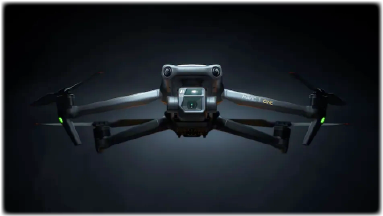
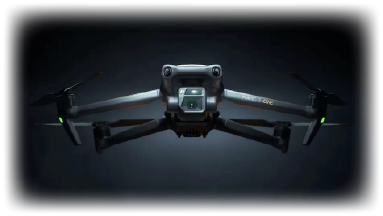
Updated Animation and Fixed XY Wrapper
*adjusted xy value logo-wrapper

*added fade in anim with quick fix

diff --git a/js/script.js b/js/script.js
@@ -9,8 +9,8 @@ window.addEventListener('DOMContentLoaded', () => {
     masterTimeline.to("#logo-wrapper", { 
         duration: 0.8, 
         scale: 0.35, 
-        x: -85,  
-        y: -85, 
+        x: -75,  
+        y: -75, 
         delay: 0.5 
     });
 
@@ -19,6 +19,18 @@ window.addEventListener('DOMContentLoaded', () => {
         x: 0,
         y: -200,
     }, "-=0.5");
+
+    //Just for Fade-In Animation.
+    masterTimeline.fromTo("#drone-wrapper", 
+        { opacity: 0 }, 
+        { 
+            opacity: 1, 
+            duration: 0.7, 
+            ease: "power1.inOut" 
+        }, 
+        "-=0.5"
+    );
+    //END
 
     masterTimeline.to("#copy-container", { 
         duration: 0.6, 
@@ -51,10 +63,12 @@ window.addEventListener('DOMContentLoaded', () => {
         });
     }
 
+    //End All Animation at 15s
     gsap.delayedCall(15.0, () => {
         masterTimeline.pause();
         if (hoverTween) hoverTween.pause();
-        if (lightTween) gsap.set(".drone-light", { opacity: 0 });
+        if (lightTween) lightTween.pause();
+        gsap.set(".drone-light", { opacity: 0, repeat: 0 });
         console.log("15.0 seconds.");
     });
 });